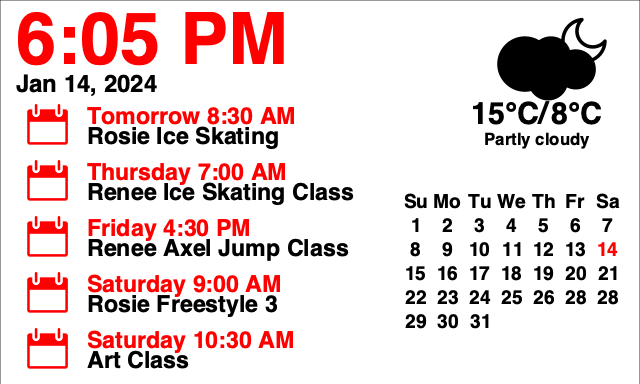
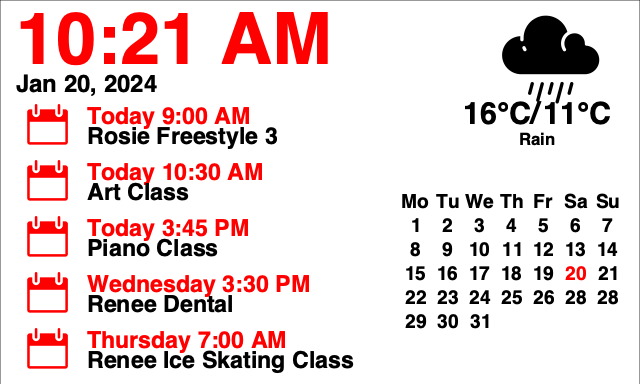
Fix the week headers of the monthly calendar

diff --git a/screen-calendar-month.py b/screen-calendar-month.py
@@ -10,6 +10,9 @@ configure_logging()
 
 def get_formatted_calendar_month() -> dict:
     formatted_calendar_month = {}
+    week_headers = calendar.weekheader(2).split()
+    for d in range(len(week_headers)):
+      formatted_calendar_month[f'WH{d}'] = week_headers[d]
     today = datetime.date.today()
     firstWeekDay, days = calendar.monthrange(today.year, today.month)
     for d in range(37):
